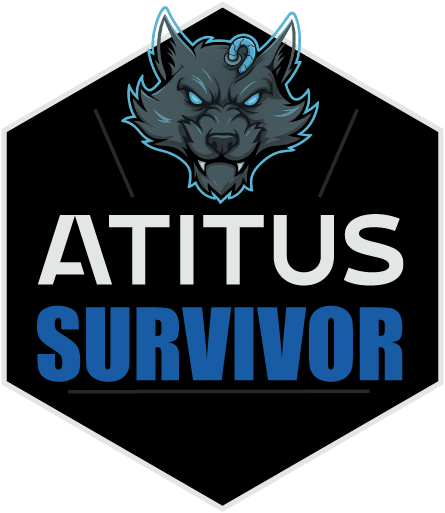
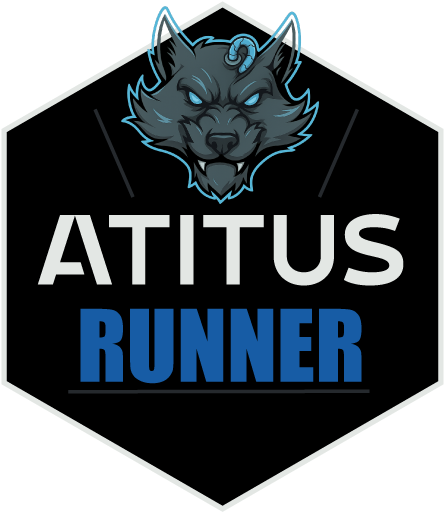
Renomeado projeto de AtitusSurvivor para AtitusRunner, atualizado ícone e referências em textos no código

Changed region(s): [[0.0584, 0.5926, 0.9056, 0.7485]]

diff --git a/recursos/telas.py b/recursos/telas.py
@@ -8,6 +8,7 @@ class TelaInicial:
         self.tela = tela
         self.relogio = pygame.time.Clock()
         self.fonte = pygame.font.Font('recursos/PressStart2P.ttf', 20)
+        self.fonte_criado_por = pygame.font.Font('recursos/PressStart2P.ttf', 12)
         self.nome_inserido = ''
         self.entry_ativa = False
         self.estado = 'entry'  # 'entry' ou 'welcome'
@@ -50,7 +51,7 @@ class TelaInicial:
             cor_borda = pygame.Color(75, 155, 255)
         self.desenhar_retangulo_arredondado(self.tela, self.entry_rect, (0,0,0,153), cor_borda)
         texto = self.nome_inserido or 'Digite seu nome...'
-        txt = self.fonte.render(texto, True, (255,255,255))
+        txt = self.fonte.render(texto, True, WHITE)
         self.tela.blit(txt, (self.entry_rect.x+20,
                               self.entry_rect.y + (self.entry_rect.height-txt.get_height())//2))
 
@@ -59,7 +60,7 @@ class TelaInicial:
         border = pygame.Color('#195DA6')
         if self.botao_entry.collidepoint(mouse): border = pygame.Color(75,155,255)
         self.desenhar_retangulo_arredondado(self.tela, self.botao_entry, (0,0,0,153), border)
-        label = self.fonte.render('CONFIRMAR', True, (255,255,255))
+        label = self.fonte.render('CONFIRMAR', True, WHITE)
         self.tela.blit(label, label.get_rect(center=self.botao_entry.center))
 
     def desenhar_welcome(self):
@@ -73,9 +74,9 @@ class TelaInicial:
         sufixo = f", {self.nome_inserido}!"
 
         # Renderizar partes separadamente
-        texto_prefixo = self.fonte.render(prefixo + " ", True, (255, 255, 255))
-        texto_mundo = self.fonte.render(palavra_riscada, True, (255, 255, 255))
-        texto_sufixo = self.fonte.render(sufixo, True, (255, 255, 255))
+        texto_prefixo = self.fonte.render(prefixo + " ", True, WHITE)
+        texto_mundo = self.fonte.render(palavra_riscada, True, WHITE)
+        texto_sufixo = self.fonte.render(sufixo, True, WHITE)
 
         # Calcular posição centralizada
         total_largura = texto_prefixo.get_width() + texto_mundo.get_width() + texto_sufixo.get_width()

diff --git a/main.py b/main.py
@@ -240,7 +240,7 @@ class Game:
     
 if __name__ == '__main__':
     pygame.init()
-    pygame.display.set_caption('Atitus Survivor')
+    pygame.display.set_caption('Atitus Runner')
     tela = pygame.display.set_mode((LARGURA_TELA, ALTURA_TELA))
     icone = pygame.image.load('recursos/icon.png')
     pygame.display.set_icon(icone)

diff --git a/README.md b/README.md
@@ -1,4 +1,4 @@
-# **Atitus Survivor**
+# **Atitus Runner**
 
 ### Desenvolvido por Pedro Henrique Moreschi Rizzotto
 **RA:** 1138024
